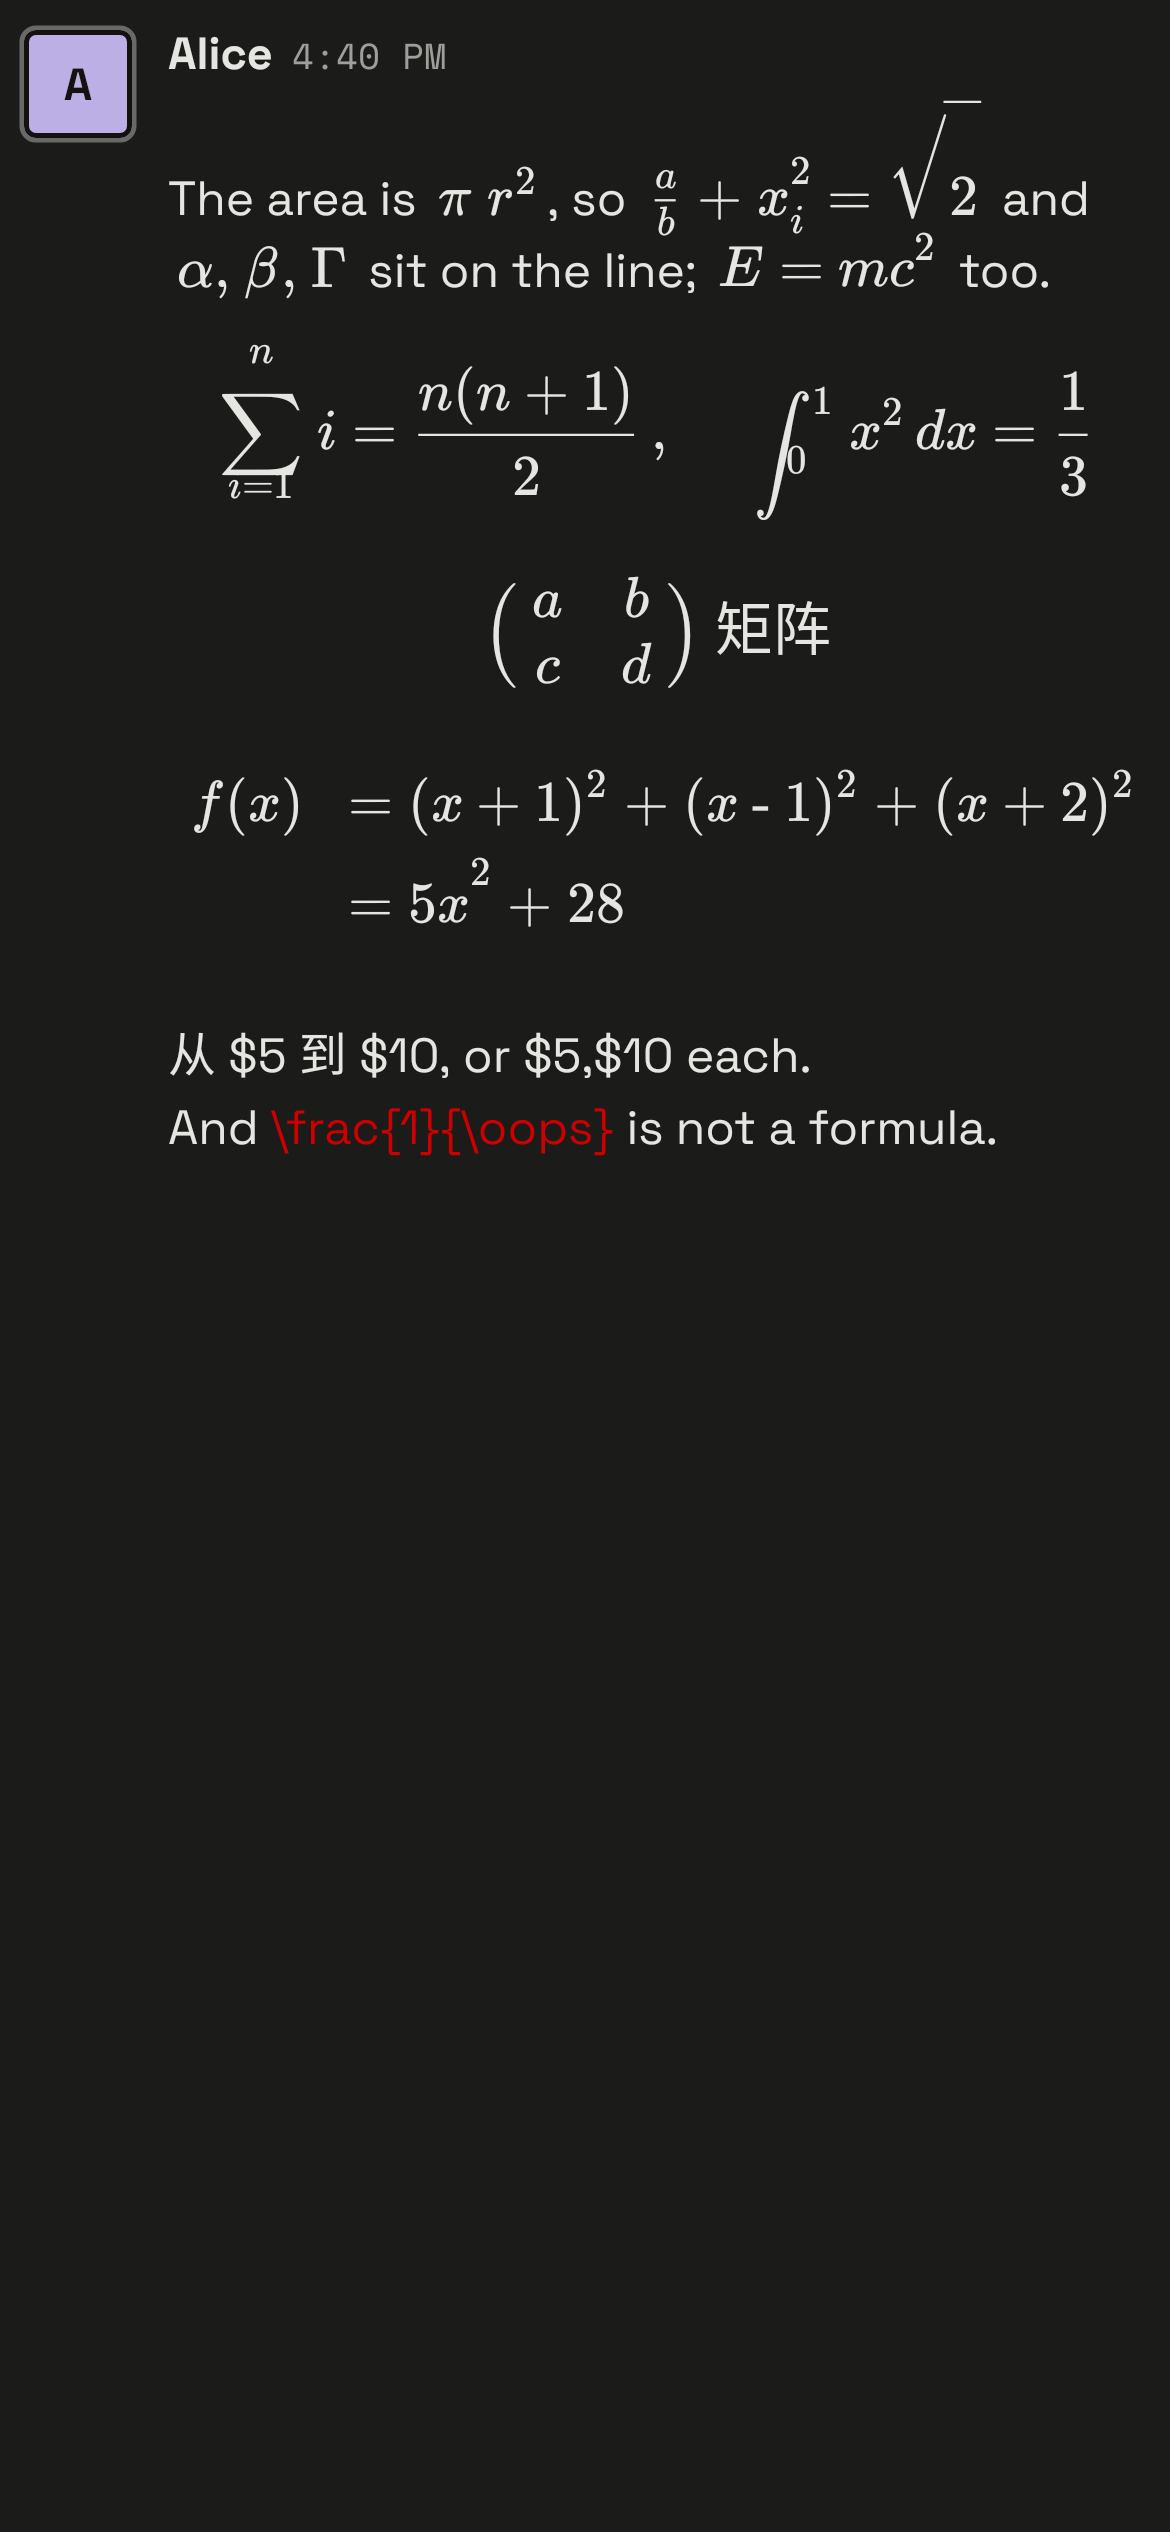
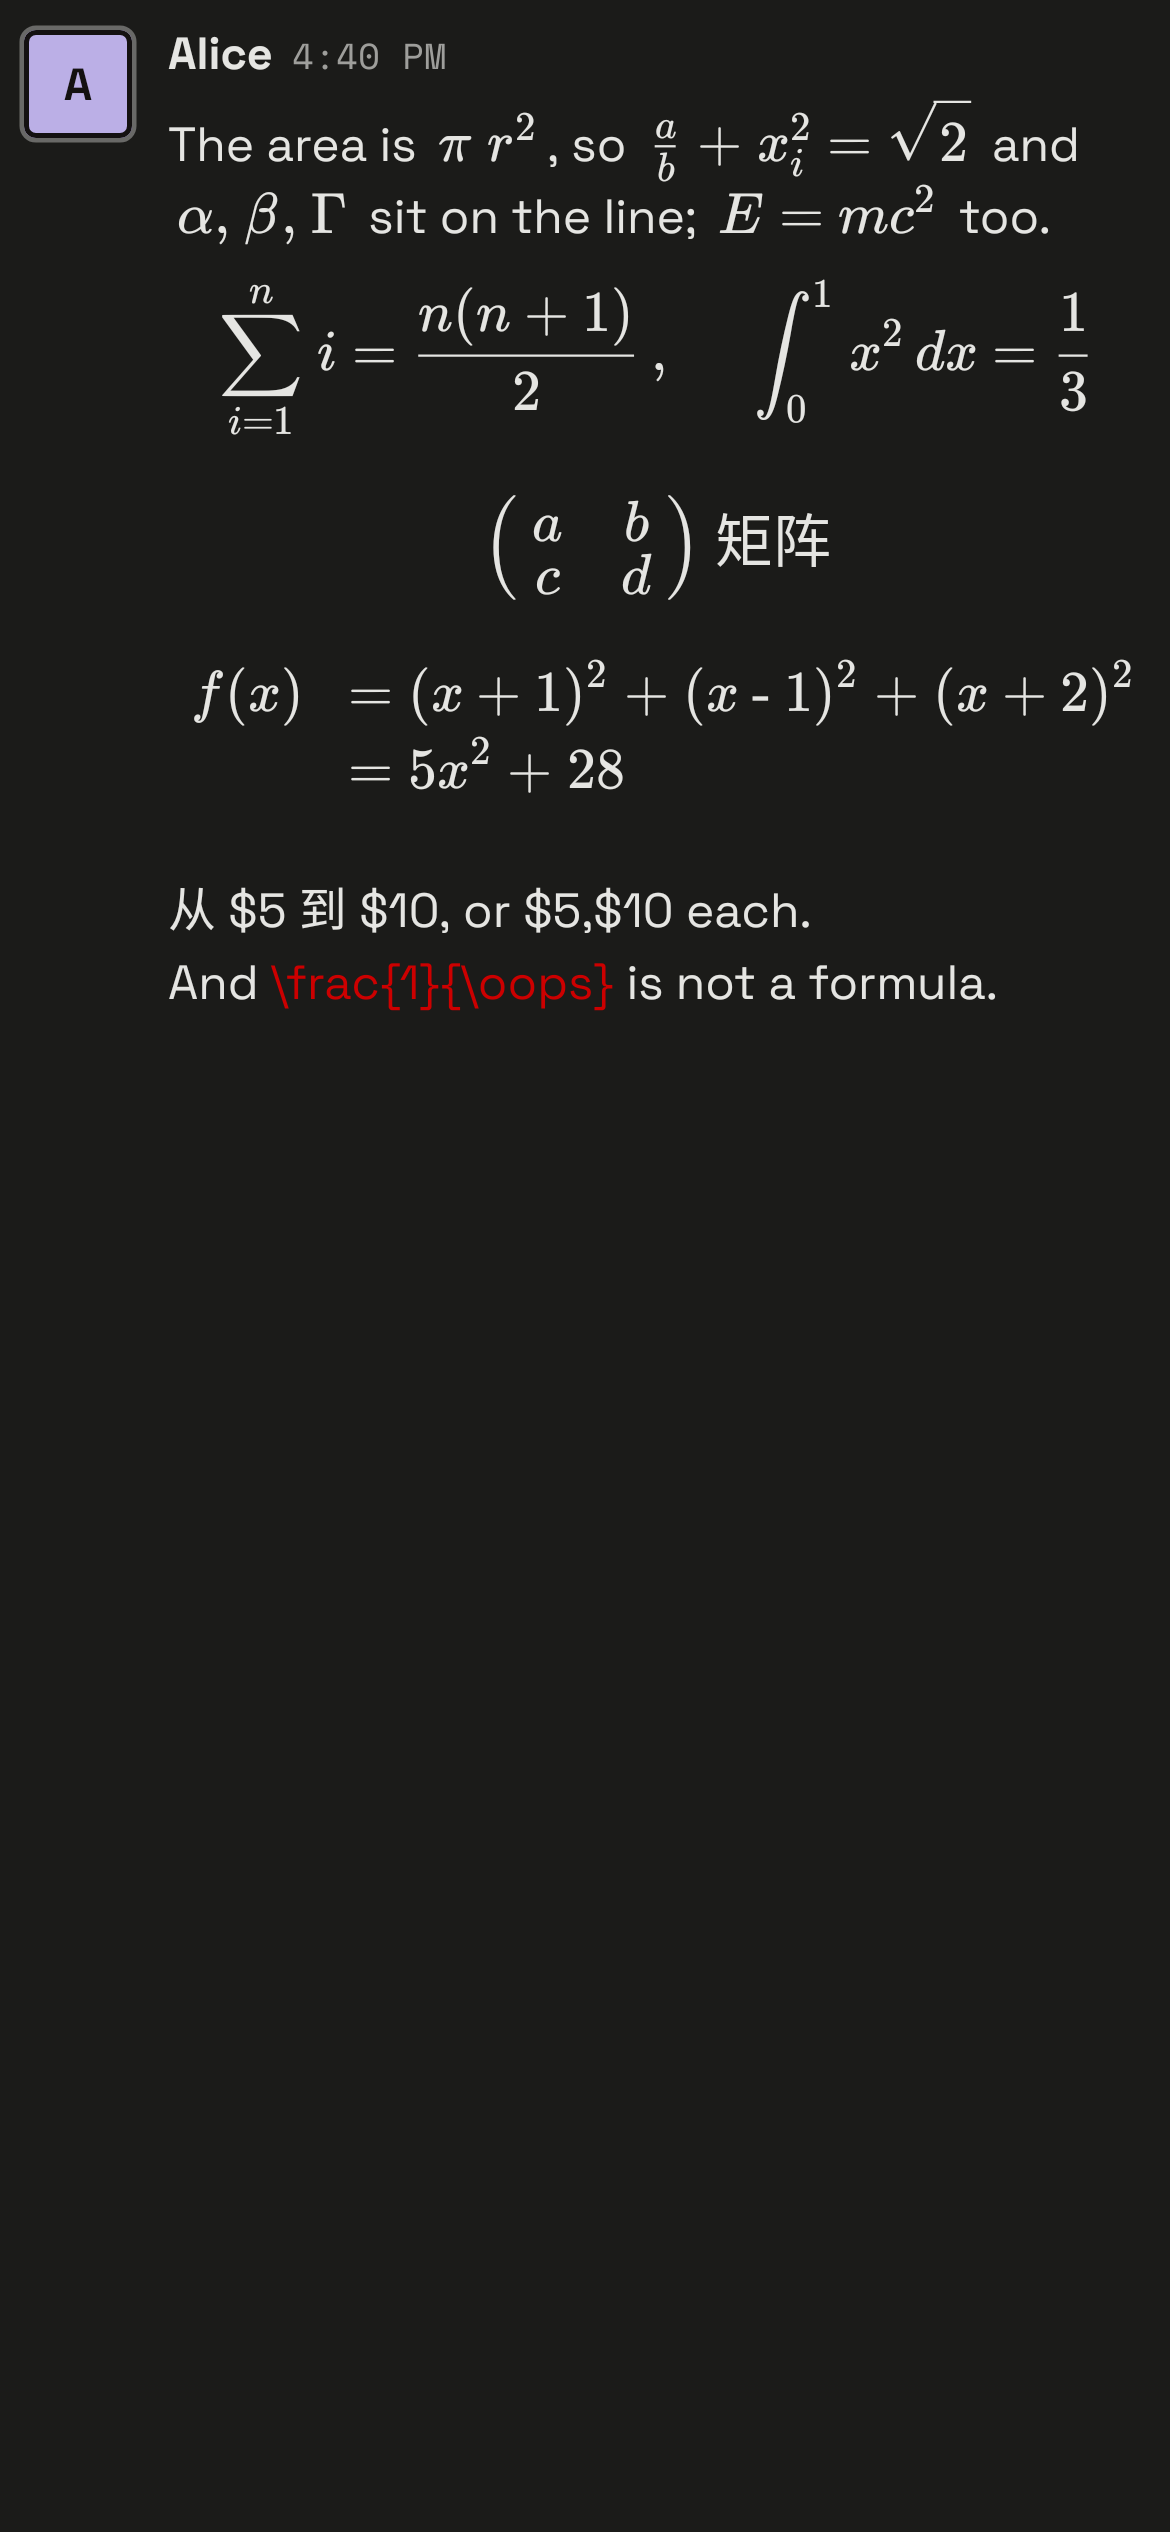
fix(markdown): keep \neq / \nu in formulas when decoding escaped line breaks; KaTeX font bytes for math layout
normalizeThreadMarkdownBody decoded every literal `\n` in a one-line body
as an escaped line break, so `$a \neq b$` split mid-formula. It now
leaves inline math and code spans alone, found with the same parser.

Inline `\sqrt` was far too tall: the layout picks radical and delimiter
sizes from the font outlines, and we passed no font bytes. They are read
once with the first formula; until then a formula shows as code. Goldens
re-recorded. The dialect spec notes that `$a\$b$` is one formula here.

diff --git a/compose/shared/src/commonMain/kotlin/build/raft/app/markdown/RaftMarkdownMath.kt b/compose/shared/src/commonMain/kotlin/build/raft/app/markdown/RaftMarkdownMath.kt
@@ -8,7 +8,11 @@ import androidx.compose.foundation.layout.wrapContentSize
 import androidx.compose.foundation.rememberScrollState
 import androidx.compose.foundation.text.InlineTextContent
 import androidx.compose.runtime.Composable
+import androidx.compose.runtime.LaunchedEffect
+import androidx.compose.runtime.getValue
+import androidx.compose.runtime.mutableStateOf
 import androidx.compose.runtime.remember
+import androidx.compose.runtime.setValue
 import androidx.compose.ui.Alignment
 import androidx.compose.ui.Modifier
 import androidx.compose.ui.layout.Layout
@@ -27,7 +31,9 @@ import androidx.compose.ui.unit.isSpecified
 import androidx.compose.ui.unit.sp
 import build.raft.app.markdown.RaftMathFormulas.MAX_HEIGHT_EM
 import build.raft.app.markdown.RaftMathFormulas.MAX_WIDTH_EM
+import build.raft.designsystem.theme.RaftKatexFontBytes
 import build.raft.designsystem.theme.RaftKatexFonts
+import build.raft.designsystem.theme.loadRaftKatexFontBytes
 import build.raft.designsystem.theme.rememberRaftKatexFonts
 import com.hrm.latex.parser.LatexParser
 import com.hrm.latex.parser.model.LatexNode
@@ -41,6 +47,11 @@ import com.tencent.kuiklybase.markdown.compose.LocalMarkdownColors
 import com.tencent.kuiklybase.markdown.compose.LocalMarkdownTypography
 import com.tencent.kuiklybase.markdown.compose.elements.material.MarkdownBasicText
 import kotlinx.atomicfu.locks.SynchronizedObject
+import kotlinx.coroutines.CoroutineScope
+import kotlinx.coroutines.Deferred
+import kotlinx.coroutines.async
+import kotlinx.coroutines.Dispatchers
+import kotlinx.coroutines.SupervisorJob
 import kotlinx.atomicfu.locks.synchronized
 
 /*
@@ -55,7 +66,8 @@ import kotlinx.atomicfu.locks.synchronized
  *  - it is drawn in the text colour, so it follows the theme;
  *  - a formula KaTeX would reject shows its source in KaTeX's errorColor (#cc0000), as the web
  *    does with `throwOnError: false`; until it is laid out it shows in the code style;
- *  - nothing loads until a formula is shown: the fonts are composed with the first formula.
+ *  - nothing loads until a formula is shown: the fonts are composed, and their bytes read, with
+ *    the first formula; until then it shows as its source in the code style (web: KaTeX loading).
  */
 
 internal const val RAFT_INLINE_MATH_CONTENT_ID_PREFIX = "raft.markdown.math:"
@@ -192,7 +204,7 @@ private object RaftMathLayouts {
 private fun raftMathTex(source: String, display: Boolean): String =
     if (display) "\\displaystyle $source" else "\\textstyle $source"
 
-private fun RaftKatexFonts.toLatexFontFamilies(): LatexFontFamilies =
+private fun RaftKatexFonts.toLatexFontFamilies(bytes: RaftKatexFontBytes): LatexFontFamilies =
     LatexFontFamilies(
         main = main,
         math = math,
@@ -206,16 +218,54 @@ private fun RaftKatexFonts.toLatexFontFamilies(): LatexFontFamilies =
         size2 = size2,
         size3 = size3,
         size4 = size4,
+        mainBytes = bytes.main,
+        mathBytes = bytes.math,
+        amsBytes = bytes.ams,
+        size1Bytes = bytes.size1,
+        size2Bytes = bytes.size2,
+        size3Bytes = bytes.size3,
+        size4Bytes = bytes.size4,
     )
 
+/**
+ * The KaTeX font bytes, read once per process when the first formula is shown (the web loads
+ * KaTeX on the first formula too). Layout waits for them: without the outlines the library
+ * guesses glyph bounds and draws `\sqrt{2}` with a radical far too tall.
+ */
+private object RaftMathFontBytes {
+    private val scope = CoroutineScope(SupervisorJob() + Dispatchers.Default)
+    var loaded: RaftKatexFontBytes? by mutableStateOf(null)
+        private set
+
+    private val load: Deferred<Unit> by lazy {
+        scope.async { loaded = loadRaftKatexFontBytes() }
+    }
+
+    fun start() {
+        load
+    }
+
+    suspend fun await() {
+        load.await()
+    }
+}
+
+/** Starts the KaTeX font read and waits for it (tests and warm-up; rendering never waits). */
+internal suspend fun awaitRaftMathFonts() {
+    RaftMathFontBytes.await()
+}
+
+/** The formula config, or null until the KaTeX fonts are ready (the formula shows as code). */
 @Composable
-private fun rememberRaftMathConfig(textSize: TextUnit, color: Color): LatexConfig {
+private fun rememberRaftMathConfig(textSize: TextUnit, color: Color): LatexConfig? {
     val fonts = rememberRaftKatexFonts()
-    return remember(fonts, textSize, color) {
+    LaunchedEffect(Unit) { RaftMathFontBytes.start() }
+    val bytes = RaftMathFontBytes.loaded ?: return null
+    return remember(fonts, bytes, textSize, color) {
         LatexConfig(
             fontSize = textSize * RAFT_MATH_FONT_SCALE,
             theme = LatexTheme.light(color = color, backgroundColor = Color.Transparent),
-            fontFamilies = fonts.toLatexFontFamilies(),
+            fontFamilies = fonts.toLatexFontFamilies(bytes),
         )
     }
 }
@@ -243,7 +293,7 @@ internal fun raftInlineMathContent(
         }
     if (sources.isEmpty()) return emptyMap()
     val color = style.color.takeOrElse { fallbackColor }
-    val config = rememberRaftMathConfig(style.raftMathTextSize(), color)
+    val config = rememberRaftMathConfig(style.raftMathTextSize(), color) ?: return emptyMap()
     val measurer = rememberLatexMeasurer(config)
     val density = LocalDensity.current
     val fontSizePx = with(density) { config.fontSize.toPx() }
@@ -299,6 +349,11 @@ internal fun RaftDisplayMath(source: String, style: TextStyle) {
             return@Box
         }
         val config = rememberRaftMathConfig(style.raftMathTextSize(), color)
+        if (config == null) {
+            // web: before KaTeX loads, the source in a mono `pre`.
+            RaftMathSourceText(source, style, color, LocalMarkdownTypography.current.code.fontFamily)
+            return@Box
+        }
         val measurer = rememberLatexMeasurer(config)
         val fontSizePx = with(LocalDensity.current) { config.fontSize.toPx() }
         val tex = raftMathTex(source, display = true)

diff --git a/compose/shared/src/commonMain/kotlin/build/raft/app/markdown/RaftMarkdown.kt b/compose/shared/src/commonMain/kotlin/build/raft/app/markdown/RaftMarkdown.kt
@@ -157,6 +157,8 @@ import kotlinx.coroutines.launch
 import kotlinx.atomicfu.locks.SynchronizedObject
 import kotlinx.atomicfu.locks.synchronized
 import org.intellij.markdown.MarkdownElementTypes
+import com.tencent.kuiklybase.markdown.model.RaftGFMFlavourDescriptor
+import org.intellij.markdown.parser.MarkdownParser
 import org.intellij.markdown.MarkdownTokenTypes
 import org.intellij.markdown.IElementType
 import org.intellij.markdown.ast.ASTNode
@@ -536,7 +538,56 @@ fun String.normalizeThreadMarkdownBody(): String {
             (!contains('\n') && !contains('\r') && contains("\\n"))
     if (!shouldDecodeEscapedLineBreaks) return this
 
-    return replace("\\r\\n", "\n").replace("\\n", "\n").replace("\\r", "\r")
+    val literal = threadEscapedLineBreakLiteralRanges()
+    if (literal.isEmpty()) {
+        return replace("\\r\\n", "\n").replace("\\n", "\n").replace("\\r", "\r")
+    }
+    // Task #775: `\neq`, `\nu` in a formula and `\n` in code are source, not escaped
+    // line breaks; decode only outside them.
+    return buildString(length) {
+        var cursor = 0
+        for (range in literal) {
+            append(this@normalizeThreadMarkdownBody.substring(cursor, range.first).decodeThreadEscapedLineBreaks())
+            append(this@normalizeThreadMarkdownBody, range.first, range.last + 1)
+            cursor = range.last + 1
+        }
+        append(this@normalizeThreadMarkdownBody.substring(cursor).decodeThreadEscapedLineBreaks())
+    }
+}
+
+private fun String.decodeThreadEscapedLineBreaks(): String =
+    replace("\\r\\n", "\n").replace("\\n", "\n").replace("\\r", "\r")
+
+/**
+ * Source ranges of the still-escaped body that are literal: code spans, and inline math the
+ * Markdown parser finds (same rules as rendering). A `$$` span whose text starts with an
+ * escaped line break is left out: once decoded it is a `$$` block, whose lines are decoded.
+ */
+private fun String.threadEscapedLineBreakLiteralRanges(): List<IntRange> {
+    if (!contains('$') && !contains('`')) return emptyList()
+    val tree = MarkdownParser(RaftGFMFlavourDescriptor()).buildMarkdownTreeFromString(this)
+    val ranges = mutableListOf<IntRange>()
+    fun visit(node: ASTNode) {
+        when (node.type) {
+            MarkdownElementTypes.CODE_SPAN -> {
+                ranges += node.startOffset until node.endOffset
+                return
+            }
+            GFMElementTypes.INLINE_MATH -> {
+                val opening = node.children.firstOrNull()
+                val single = opening != null && opening.endOffset - opening.startOffset == 1
+                if (single || !startsWith("\\n", opening?.endOffset ?: node.startOffset) &&
+                    !startsWith("\\r", opening?.endOffset ?: node.startOffset)
+                ) {
+                    ranges += node.startOffset until node.endOffset
+                }
+                return
+            }
+        }
+        node.children.forEach(::visit)
+    }
+    visit(tree)
+    return ranges.sortedBy { it.first }
 }
 
 private fun threadEscapedMarkdownLineBreakRegex(): Regex =

diff --git a/compose/shared/src/commonTest/kotlin/build/raft/app/markdown/MarkdownMathRenderTest.kt b/compose/shared/src/commonTest/kotlin/build/raft/app/markdown/MarkdownMathRenderTest.kt
@@ -73,6 +73,24 @@ class MarkdownMathRenderTest {
         assertFalse(raftMathFormulaRenders("{".repeat(RaftMathFormulas.MAX_NESTING + 1) + "x" + "}".repeat(RaftMathFormulas.MAX_NESTING + 1)))
     }
 
+    @Test
+    fun escapedLineBreakDecodingLeavesFormulasAndCodeAlone() {
+        // One line, so a literal `\n` would otherwise be decoded as an escaped line break.
+        val oneLine = "\$a \\neq b\$ and \$\\nu\$"
+        assertEquals(oneLine, oneLine.normalizeThreadMarkdownBody())
+        assertEquals(listOf("inline:\\nu", "inline:a \\neq b"), inlineFormulas(oneLine.normalizeThreadMarkdownBody()))
+        // Outside them, escaped line breaks are still decoded.
+        assertEquals(
+            "x \$\\nu\$ and `a\\nb`\ny",
+            "x \$\\nu\$ and `a\\nb`\\ny".normalizeThreadMarkdownBody(),
+        )
+        // An escaped `$$` block becomes a block once decoded.
+        assertEquals("\$\$\nx\n\$\$", "\$\$\\nx\\n\$\$".normalizeThreadMarkdownBody())
+    }
+
+    private fun inlineFormulas(body: String): List<String> =
+        render(body).raftMarkdownInlineContentIds().map { "inline:" + it.removePrefix(RAFT_INLINE_MATH_CONTENT_ID_PREFIX) }.sorted()
+
     /** The paragraph as the message renderer builds it. */
     private fun render(body: String): AnnotatedString {
         val parserContent = MarkdownParserContent.from(body).parserContent

diff --git a/compose/designsystem/src/commonMain/kotlin/build/raft/designsystem/theme/RaftKatexFonts.kt b/compose/designsystem/src/commonMain/kotlin/build/raft/designsystem/theme/RaftKatexFonts.kt
@@ -95,3 +95,38 @@ fun rememberRaftKatexFonts(): RaftKatexFonts {
         )
     }
 }
+
+/**
+ * The bytes of the faces whose glyph outlines decide math layout (radical and delimiter sizes,
+ * ink bounds). Without them the layout estimates and picks too tall a radical for `\sqrt{2}`.
+ */
+class RaftKatexFontBytes(
+    val main: ByteArray?,
+    val math: ByteArray?,
+    val ams: ByteArray?,
+    val size1: ByteArray?,
+    val size2: ByteArray?,
+    val size3: ByteArray?,
+    val size4: ByteArray?,
+)
+
+/** Reads [RaftKatexFontBytes] from the bundled fonts; a face that cannot be read is null. */
+suspend fun loadRaftKatexFontBytes(): RaftKatexFontBytes {
+    suspend fun read(name: String): ByteArray? =
+        try {
+            Res.readBytes("font/$name.ttf")
+        } catch (cancelled: kotlin.coroutines.cancellation.CancellationException) {
+            throw cancelled
+        } catch (_: Exception) {
+            null
+        }
+    return RaftKatexFontBytes(
+        main = read("katex_main_regular"),
+        math = read("katex_math_italic"),
+        ams = read("katex_ams_regular"),
+        size1 = read("katex_size1_regular"),
+        size2 = read("katex_size2_regular"),
+        size3 = read("katex_size3_regular"),
+        size4 = read("katex_size4_regular"),
+    )
+}

diff --git a/compose/shared/src/androidUnitTest/kotlin/build/raft/app/ThreadMathMessageScreenshotTest.kt b/compose/shared/src/androidUnitTest/kotlin/build/raft/app/ThreadMathMessageScreenshotTest.kt
@@ -40,13 +40,16 @@ class ThreadMathMessageScreenshotTest {
     @Test
     fun mathDark() = capture("thread.math.dark", RaftAppAppearance.Dark)
 
-    private fun capture(name: String, appearance: RaftAppAppearance) =
+    private fun capture(name: String, appearance: RaftAppAppearance) {
+        // The formulas lay out once the KaTeX font bytes are read; until then they show as code.
+        kotlinx.coroutines.runBlocking { build.raft.app.markdown.awaitRaftMathFonts() }
         RaftRobolectricScreenshot.capture(name, appearance, reportDir = "build/reports/home-screenshots", activities = activities) {
             val pager = remember { object : Pager() {}.apply { pageData = PageData(JSONObject()) } }
             CompositionLocalProvider(LocalActivity provides RaftPageActivity(pager)) {
                 RaftDesignSystemTheme { MathRows() }
             }
         }
+    }
 }
 
 private val mathBody =

diff --git a/docs/raft-markdown-dialect.md b/docs/raft-markdown-dialect.md
@@ -178,6 +178,11 @@ Known difference: code spans are shielded at the lexer, so a backtick pair
 always wins over math. On the web whichever opens first wins, so
 ``$a `b$` c`` is math there and a code span here.
 
+Known difference: inside a formula, `\$` is an escaped dollar here and the
+formula goes on, so `$a\$b$` is the formula `a\$b`. On the web micromark does
+not read escapes inside math, so the formula ends at that `$` (`a\`) and `b$`
+is text. Mobile keeps its reading: `\$` is how TeX writes a dollar.
+
 Rendering (`RaftMarkdownMath.kt`): KaTeX layout with the KaTeX 0.19.0 fonts,
 1.21× the surrounding text as KaTeX's CSS, in the text colour; inline math on
 the text baseline, blocks centred and scrolling sideways. A formula the web's
